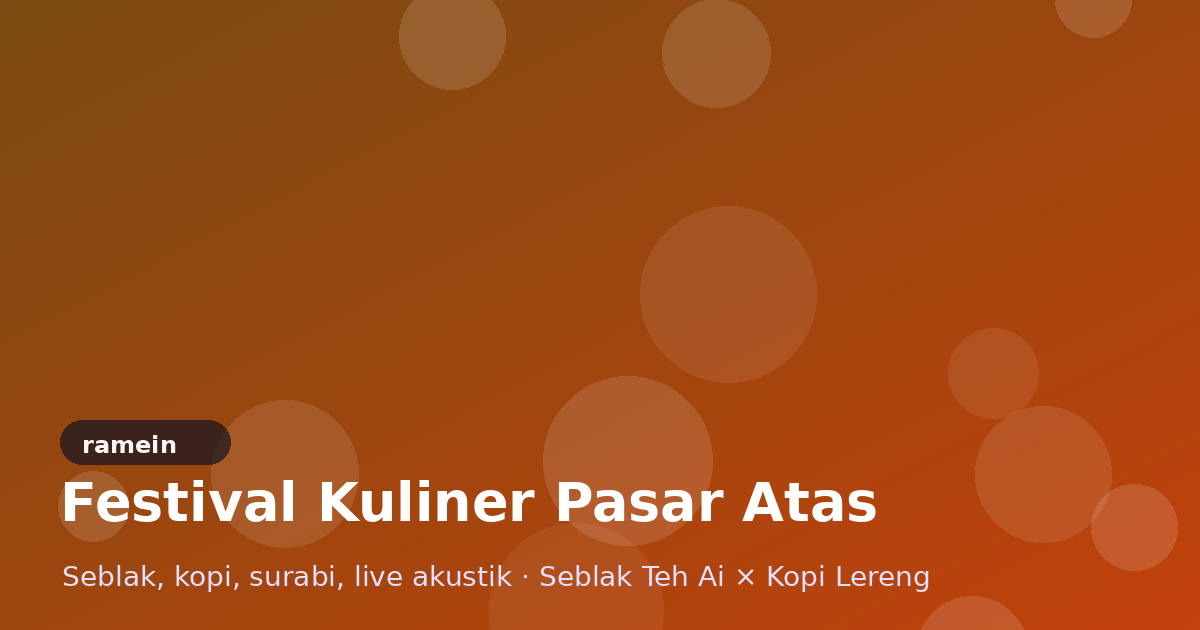
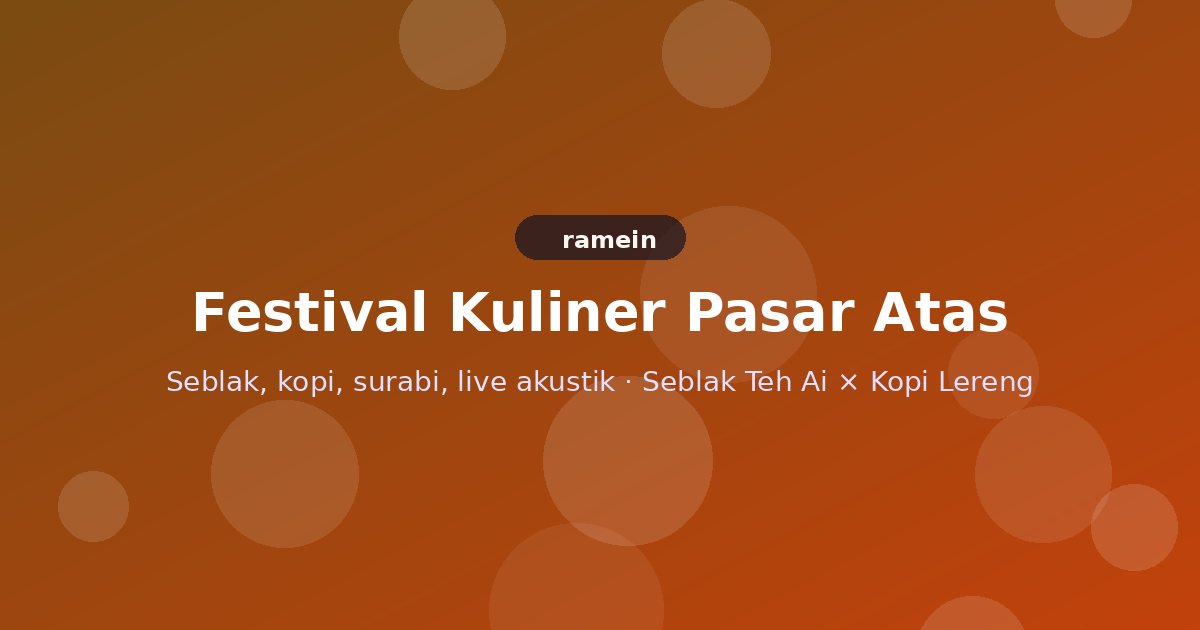
Data dummy: teks cover dipusatkan supaya tidak terpotong di kartu
Claude-Session: https://claude.ai/code/session_01Kgw1mPaXZ56Zc5GSjtsWHv

diff --git a/dummy-data/buat-gambar.py b/dummy-data/buat-gambar.py
@@ -27,11 +27,14 @@ def cover(name, title, subtitle, c1, c2, emoji_shapes=12):
     for _ in range(emoji_shapes):  # lingkaran lembut sebagai dekorasi
         r = random.randint(60, 220); x = random.randint(-100, 1200); y = random.randint(-100, 630)
         d.ellipse((x, y, x + r, y + r), fill=(255, 255, 255, random.randint(14, 36)))
-    d.rounded_rectangle((60, 420, 60 + 170, 420 + 44), 22, fill=(13, 16, 36, 170))
-    d.text((60 + 22, 420 + 10), "ramein", font=ImageFont.truetype(BOLD, 24), fill=(250, 247, 242))
+    # Teks di tengah supaya tetap terbaca saat kartu memotong bagian atas/bawah gambar.
     f = ImageFont.truetype(BOLD, 66 if len(title) < 22 else 54)
-    d.text((60, 470), title, font=f, fill=(255, 255, 255))
-    d.text((62, 560), subtitle, font=ImageFont.truetype(REG, 28), fill=(227, 225, 255))
+    tb = d.textbbox((0, 0), title, font=f); tw = tb[2] - tb[0]
+    d.rounded_rectangle((600 - 85, 215, 600 + 85, 215 + 44), 22, fill=(13, 16, 36, 170))
+    d.text((600 - 38, 225), "ramein", font=ImageFont.truetype(BOLD, 24), fill=(250, 247, 242))
+    d.text((600 - tw / 2, 280), title, font=f, fill=(255, 255, 255))
+    f2 = ImageFont.truetype(REG, 28); sb = d.textbbox((0, 0), subtitle, font=f2)
+    d.text((600 - (sb[2] - sb[0]) / 2, 365), subtitle, font=f2, fill=(227, 225, 255))
     img.save(os.path.join(OUT, f"cover-{name}.png"), optimize=True)
 
 def logo(name, initials, c1, c2, label):
